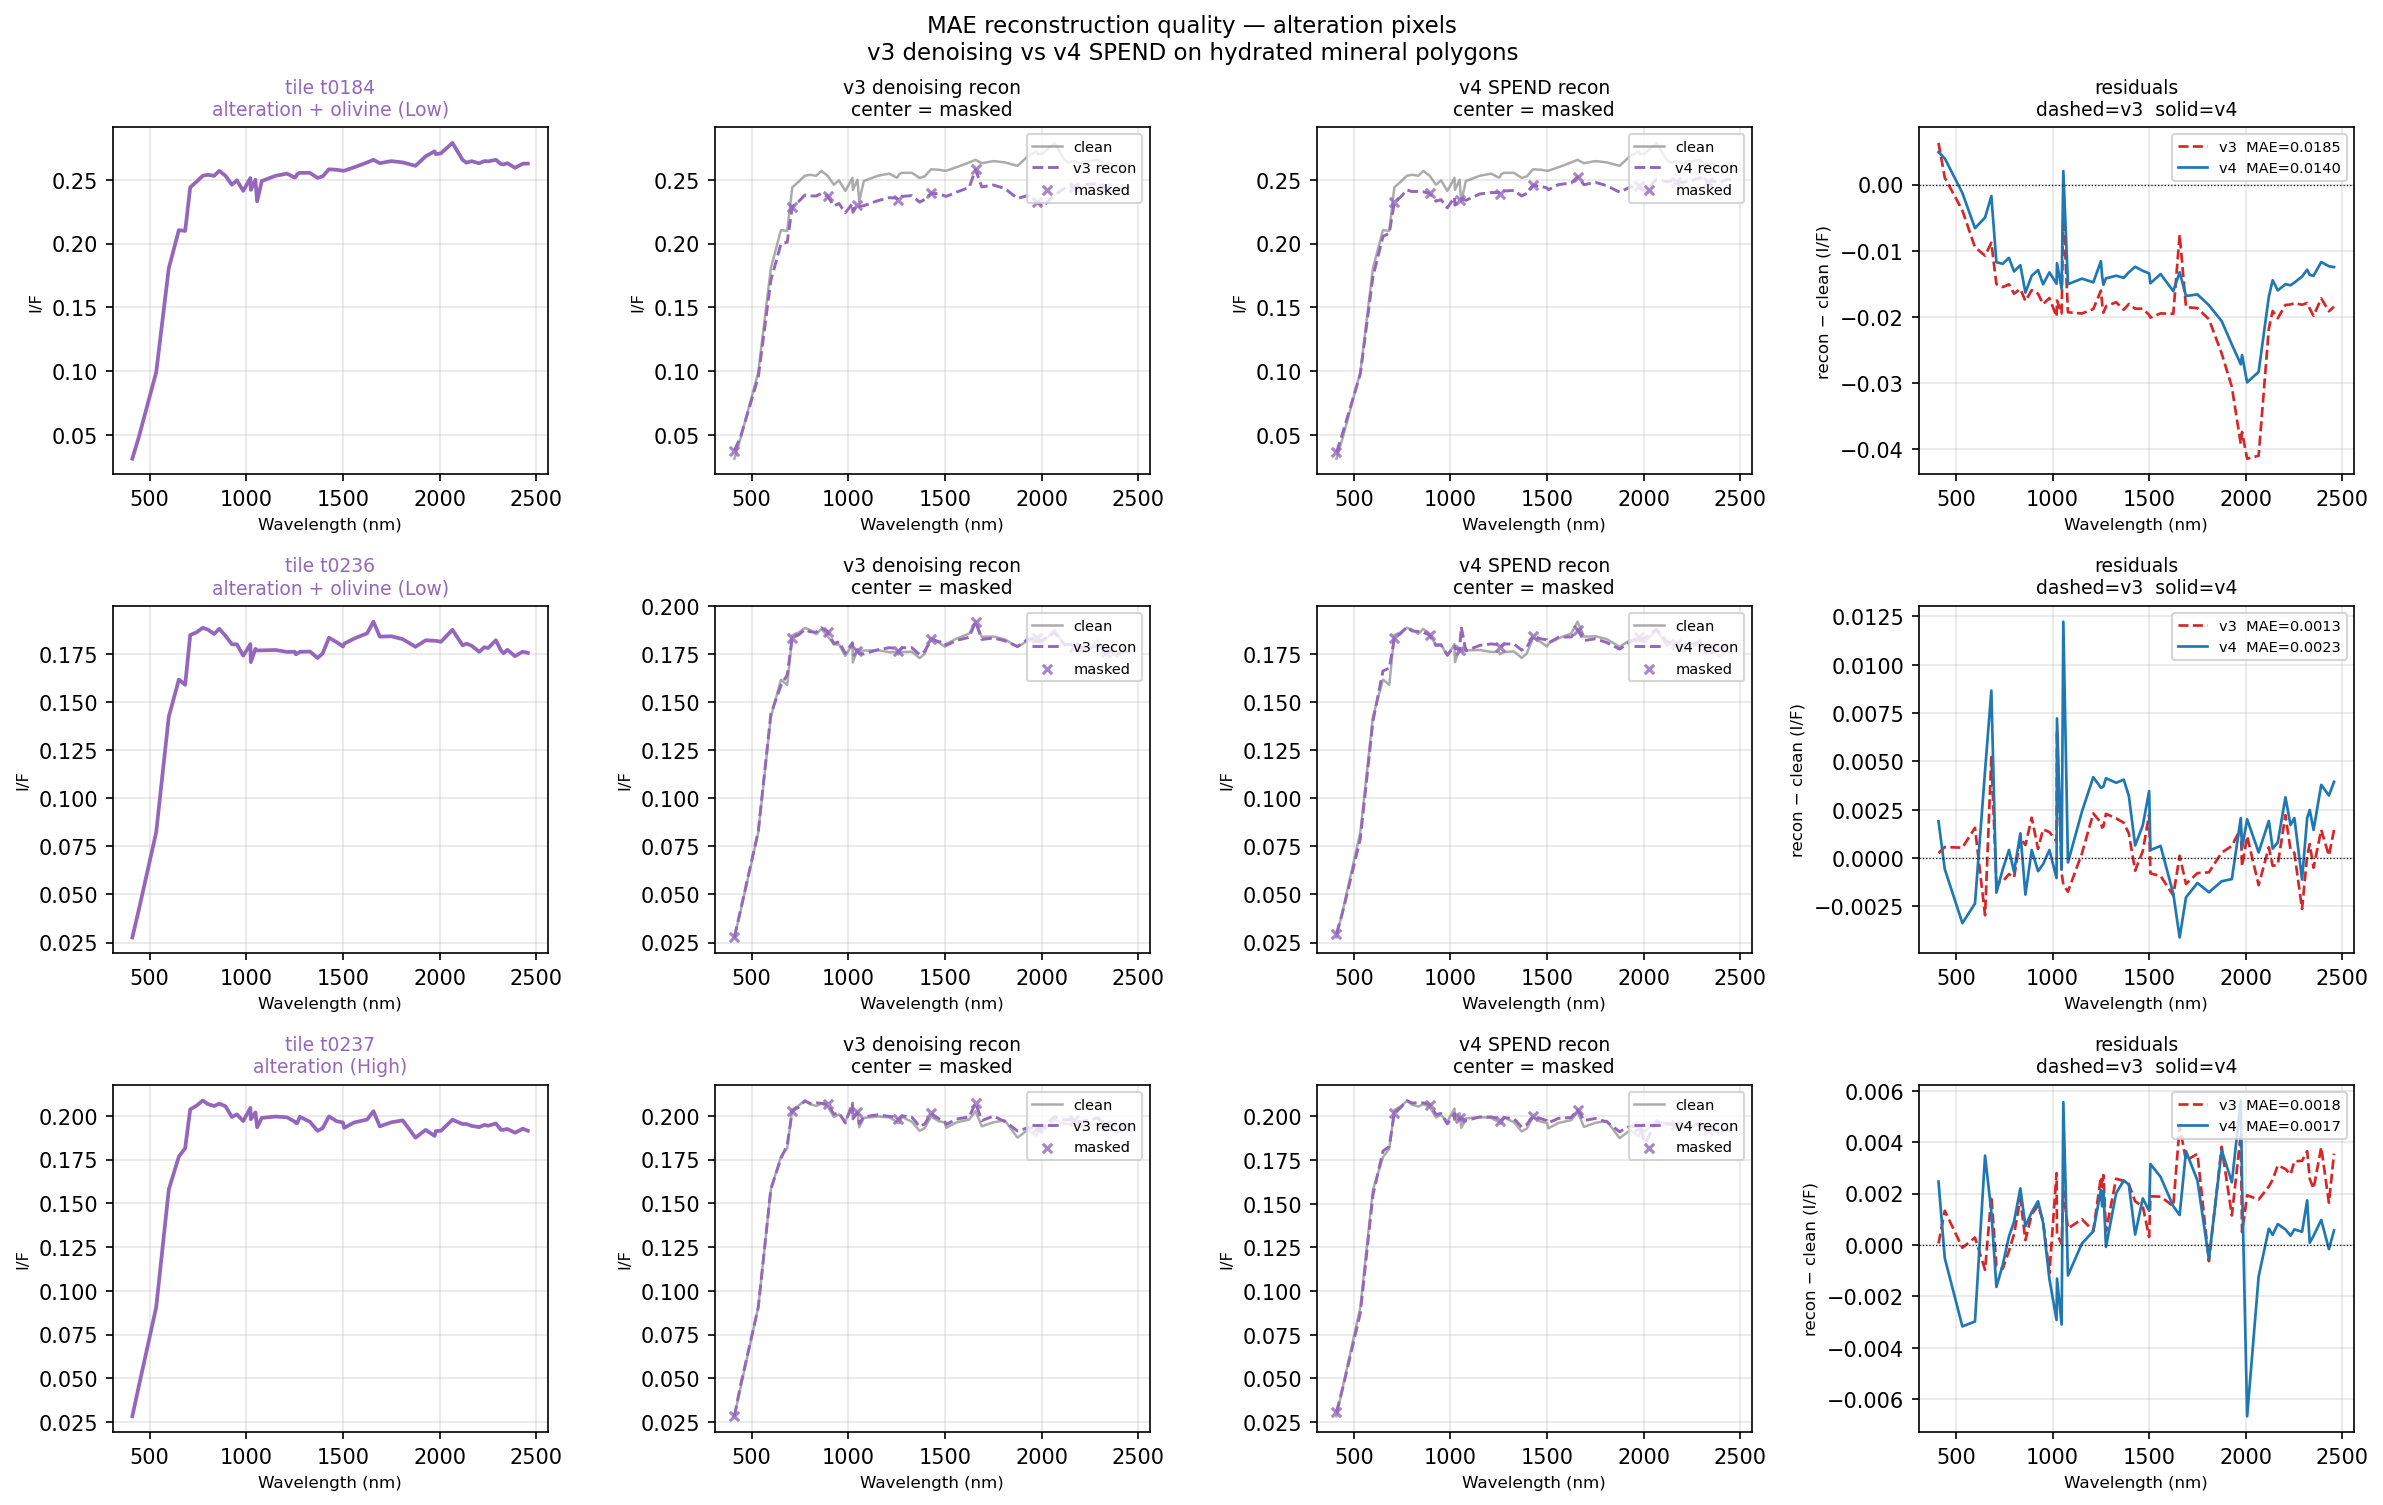
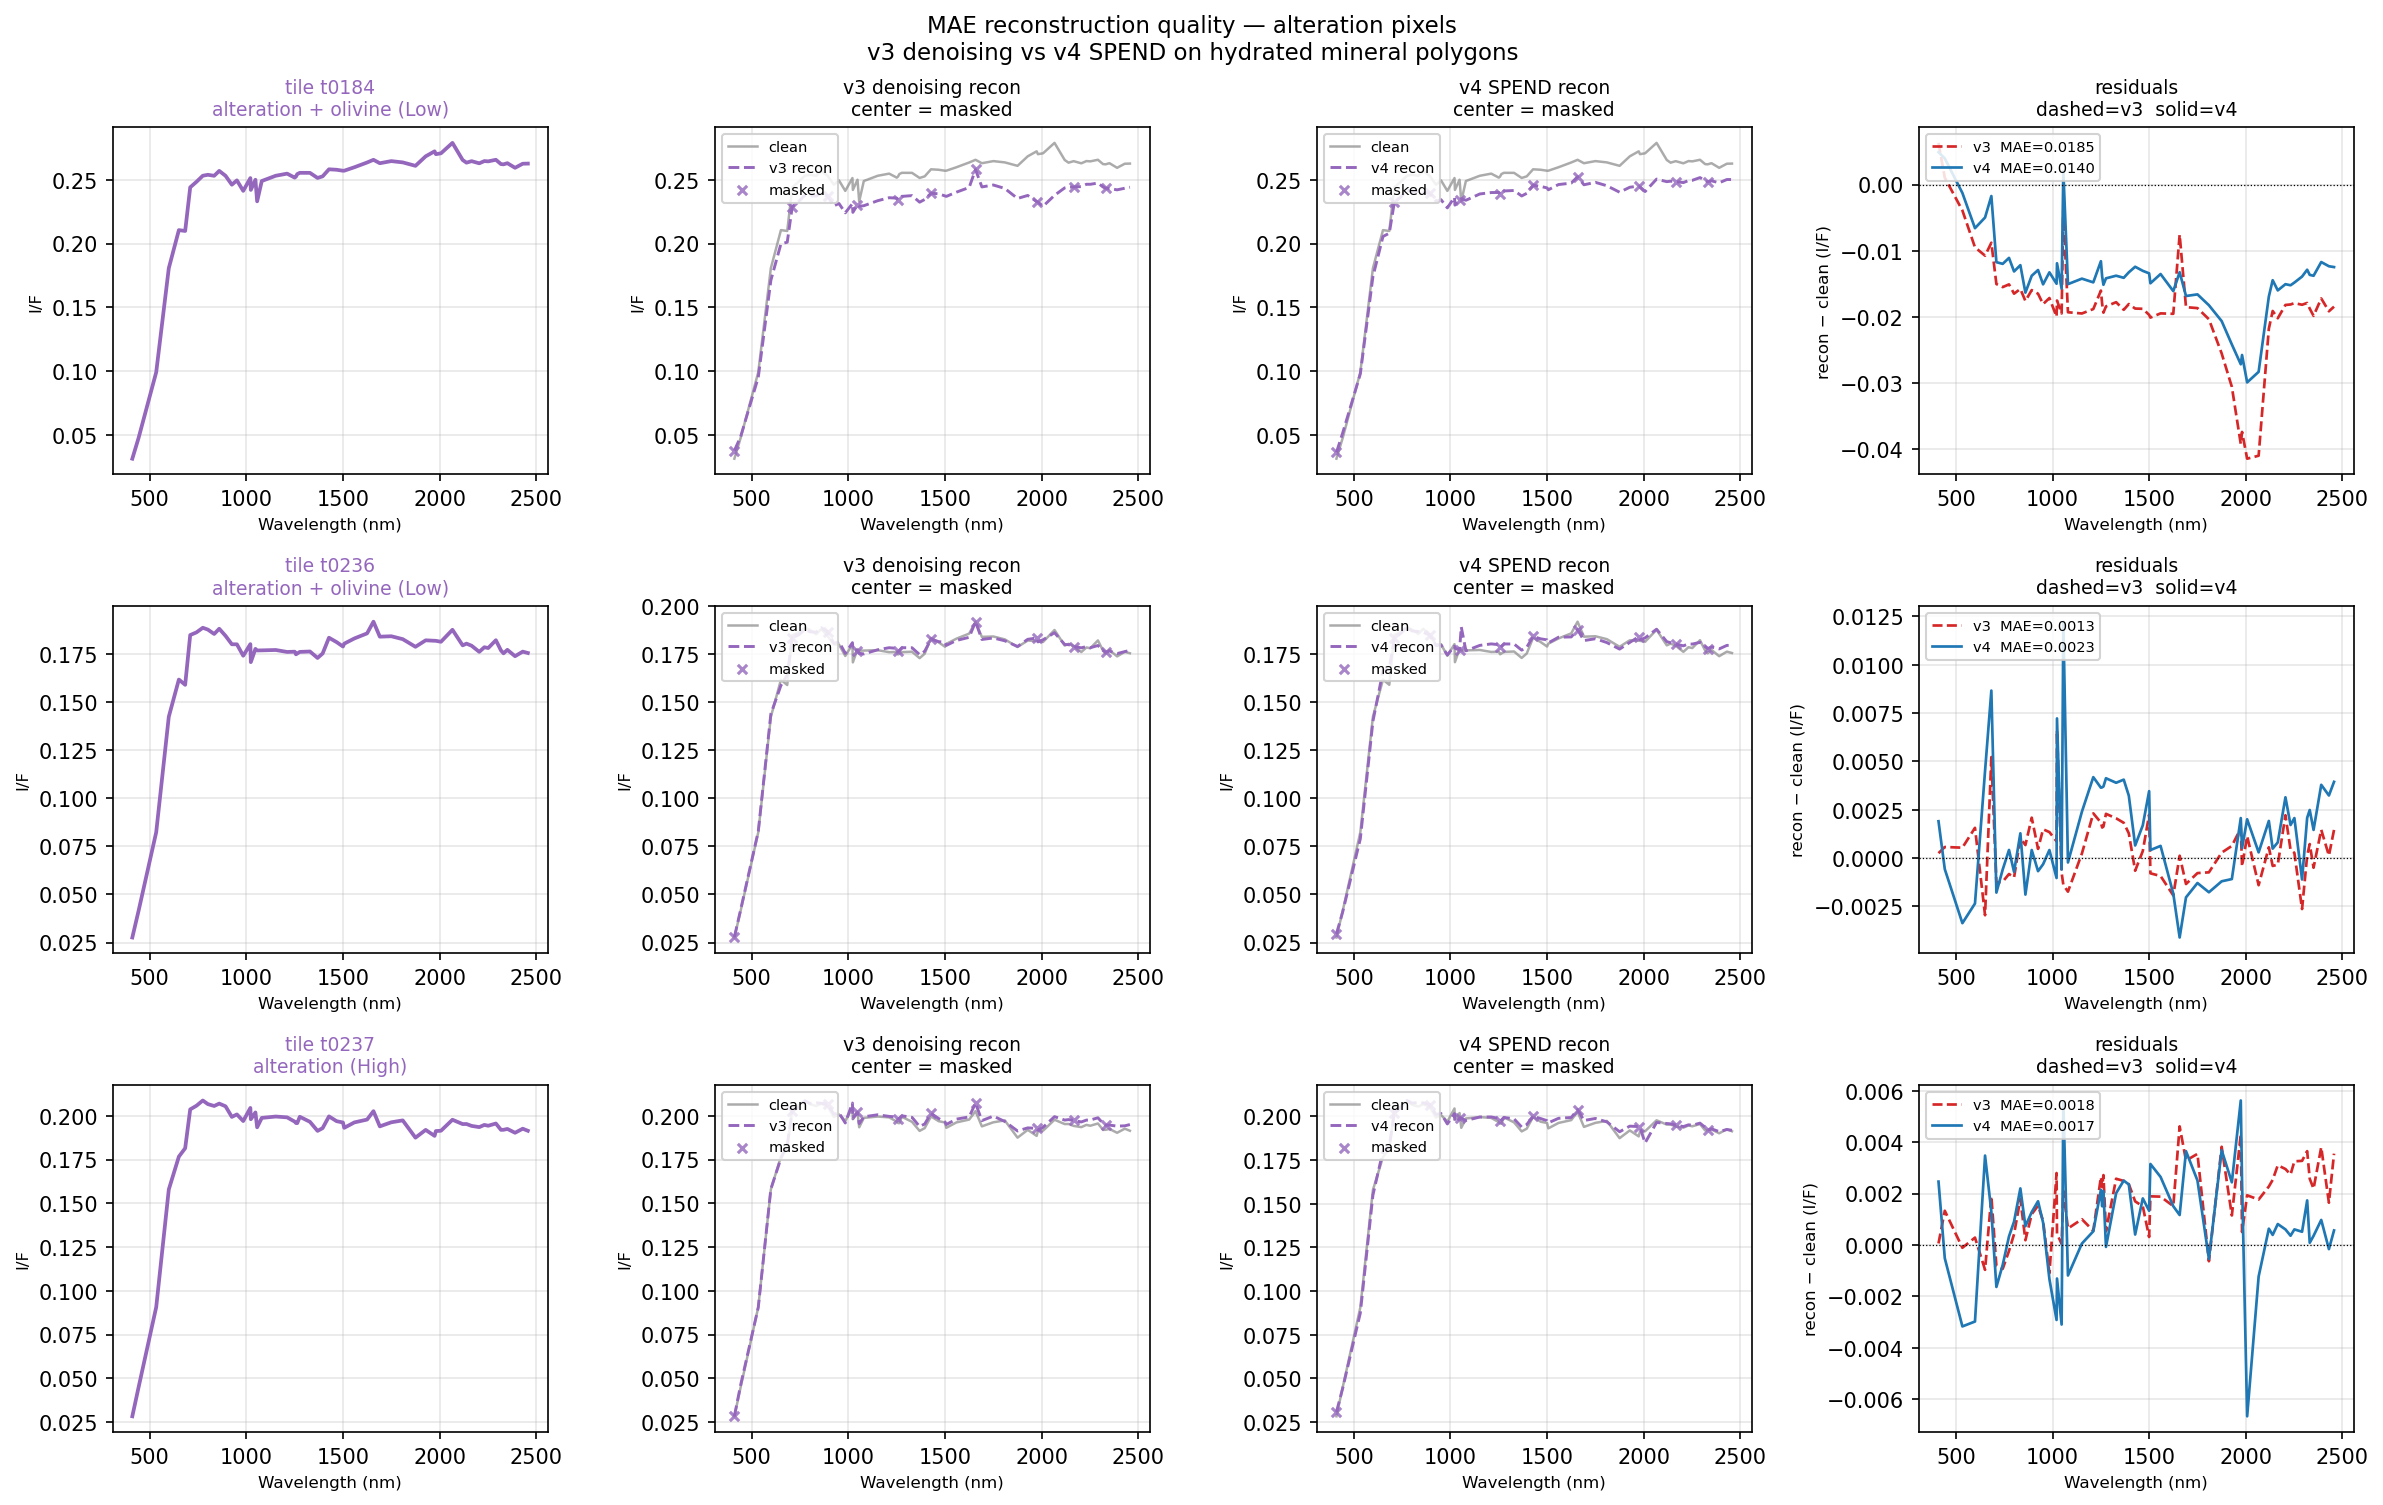
fix(figures): move alteration-recon legends out of absorption region
upper-right legend was overlapping the 1400/1900/2200 nm hydrated
mineral features. Move to upper-left where the spectrum is smoother
for these minerals; add framealpha so any underlying lines stay
slightly visible.

diff --git a/scripts/figures/fig_v5_pretrain_alteration_recon.py b/scripts/figures/fig_v5_pretrain_alteration_recon.py
@@ -312,7 +312,7 @@ def main():
         ax.set_ylabel('I/F', fontsize=8)
         ax.set_title(f'v3 denoising recon\ncenter = {"masked" if center_masked_v3 else "visible"}',
                      fontsize=9)
-        ax.legend(fontsize=7, loc='upper right')
+        ax.legend(fontsize=7, loc='upper left', framealpha=0.85)
         ax.grid(alpha=0.3)
 
         # ── Col 3: v4 SPEND reconstruction ──────────────────────────────────
@@ -331,7 +331,7 @@ def main():
         ax.set_ylabel('I/F', fontsize=8)
         ax.set_title(f'v4 SPEND recon\ncenter = {"masked" if center_masked_v4 else "visible"}',
                      fontsize=9)
-        ax.legend(fontsize=7, loc='upper right')
+        ax.legend(fontsize=7, loc='upper left', framealpha=0.85)
         ax.grid(alpha=0.3)
 
         # ── Col 4: residuals ─────────────────────────────────────────────────
@@ -350,7 +350,7 @@ def main():
         ax.set_xlabel('Wavelength (nm)', fontsize=8)
         ax.set_ylabel('recon − clean (I/F)', fontsize=8)
         ax.set_title('residuals\ndashed=v3  solid=v4', fontsize=9)
-        ax.legend(fontsize=7, loc='upper right')
+        ax.legend(fontsize=7, loc='upper left', framealpha=0.85)
         ax.grid(alpha=0.3)
 
         print(f'    residual MAE: v3={mae_v3:.5f}  v4={mae_v4:.5f}  '
